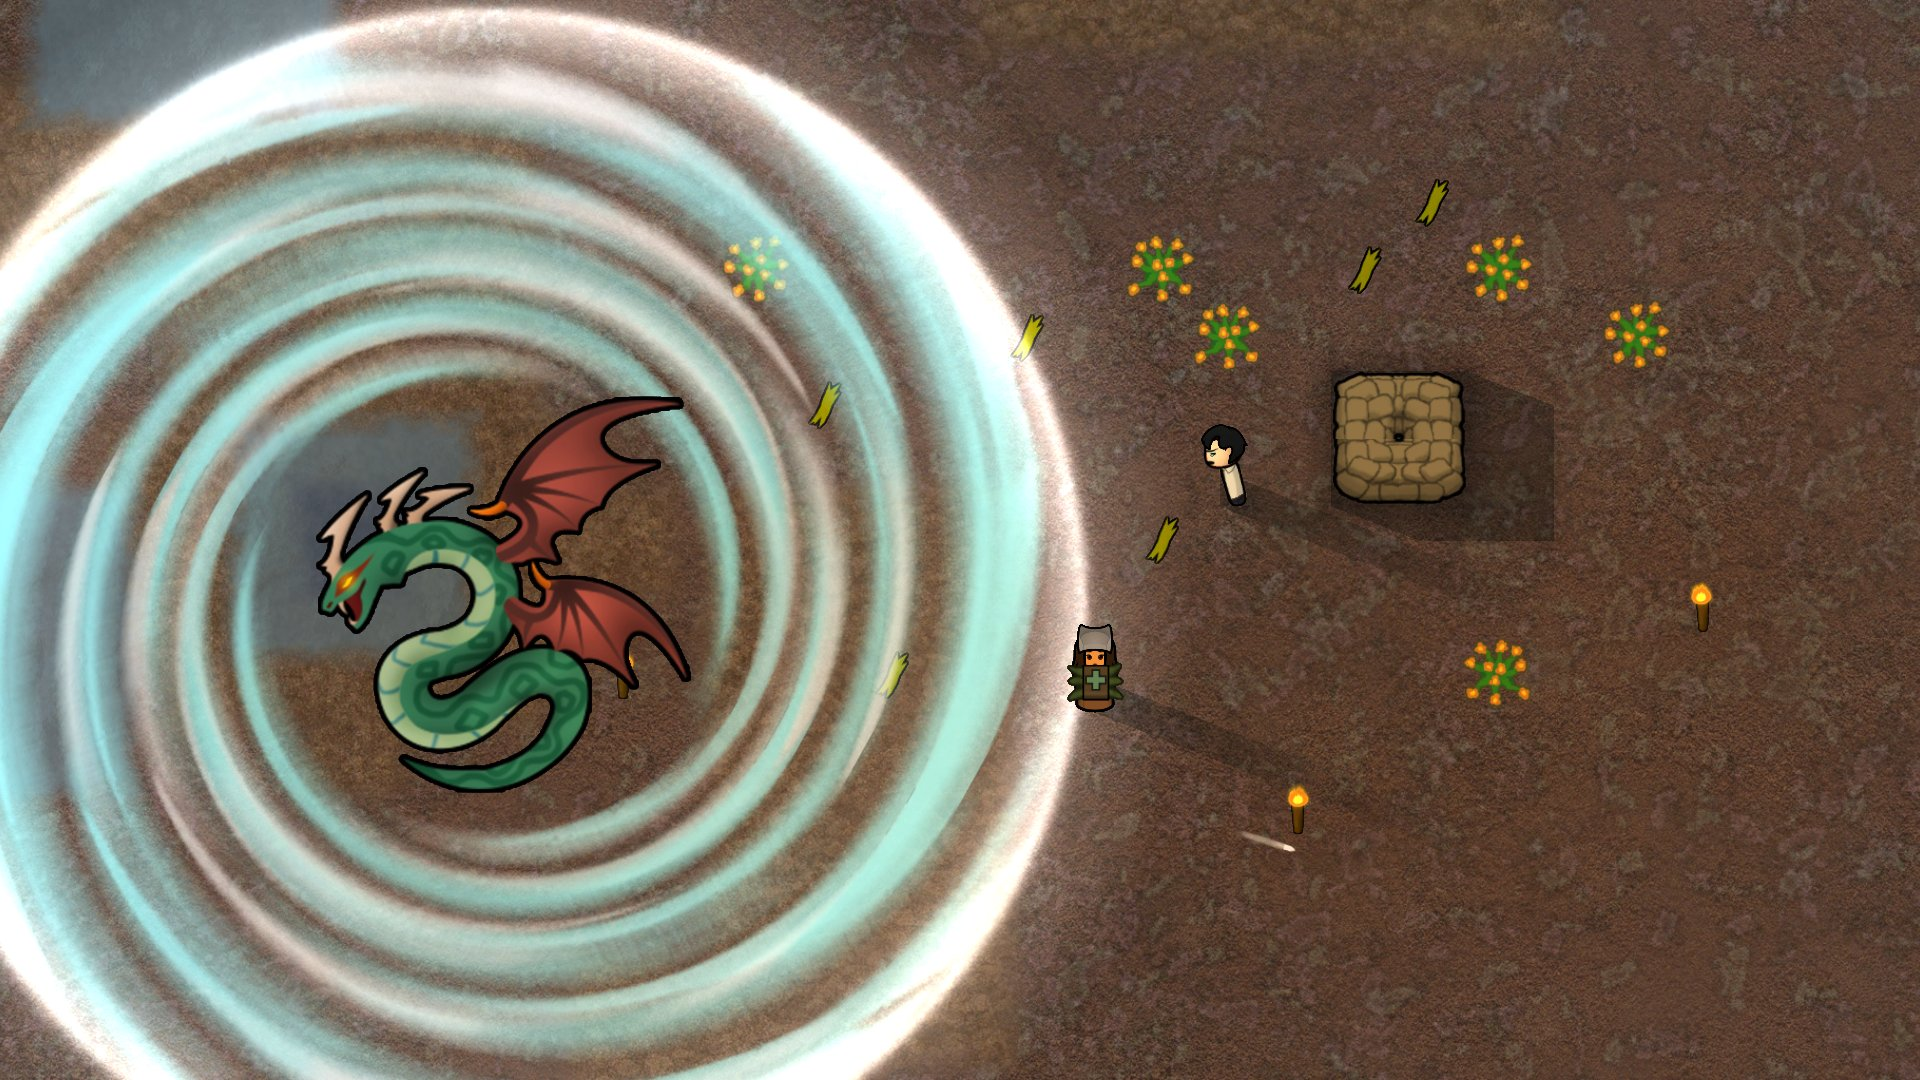
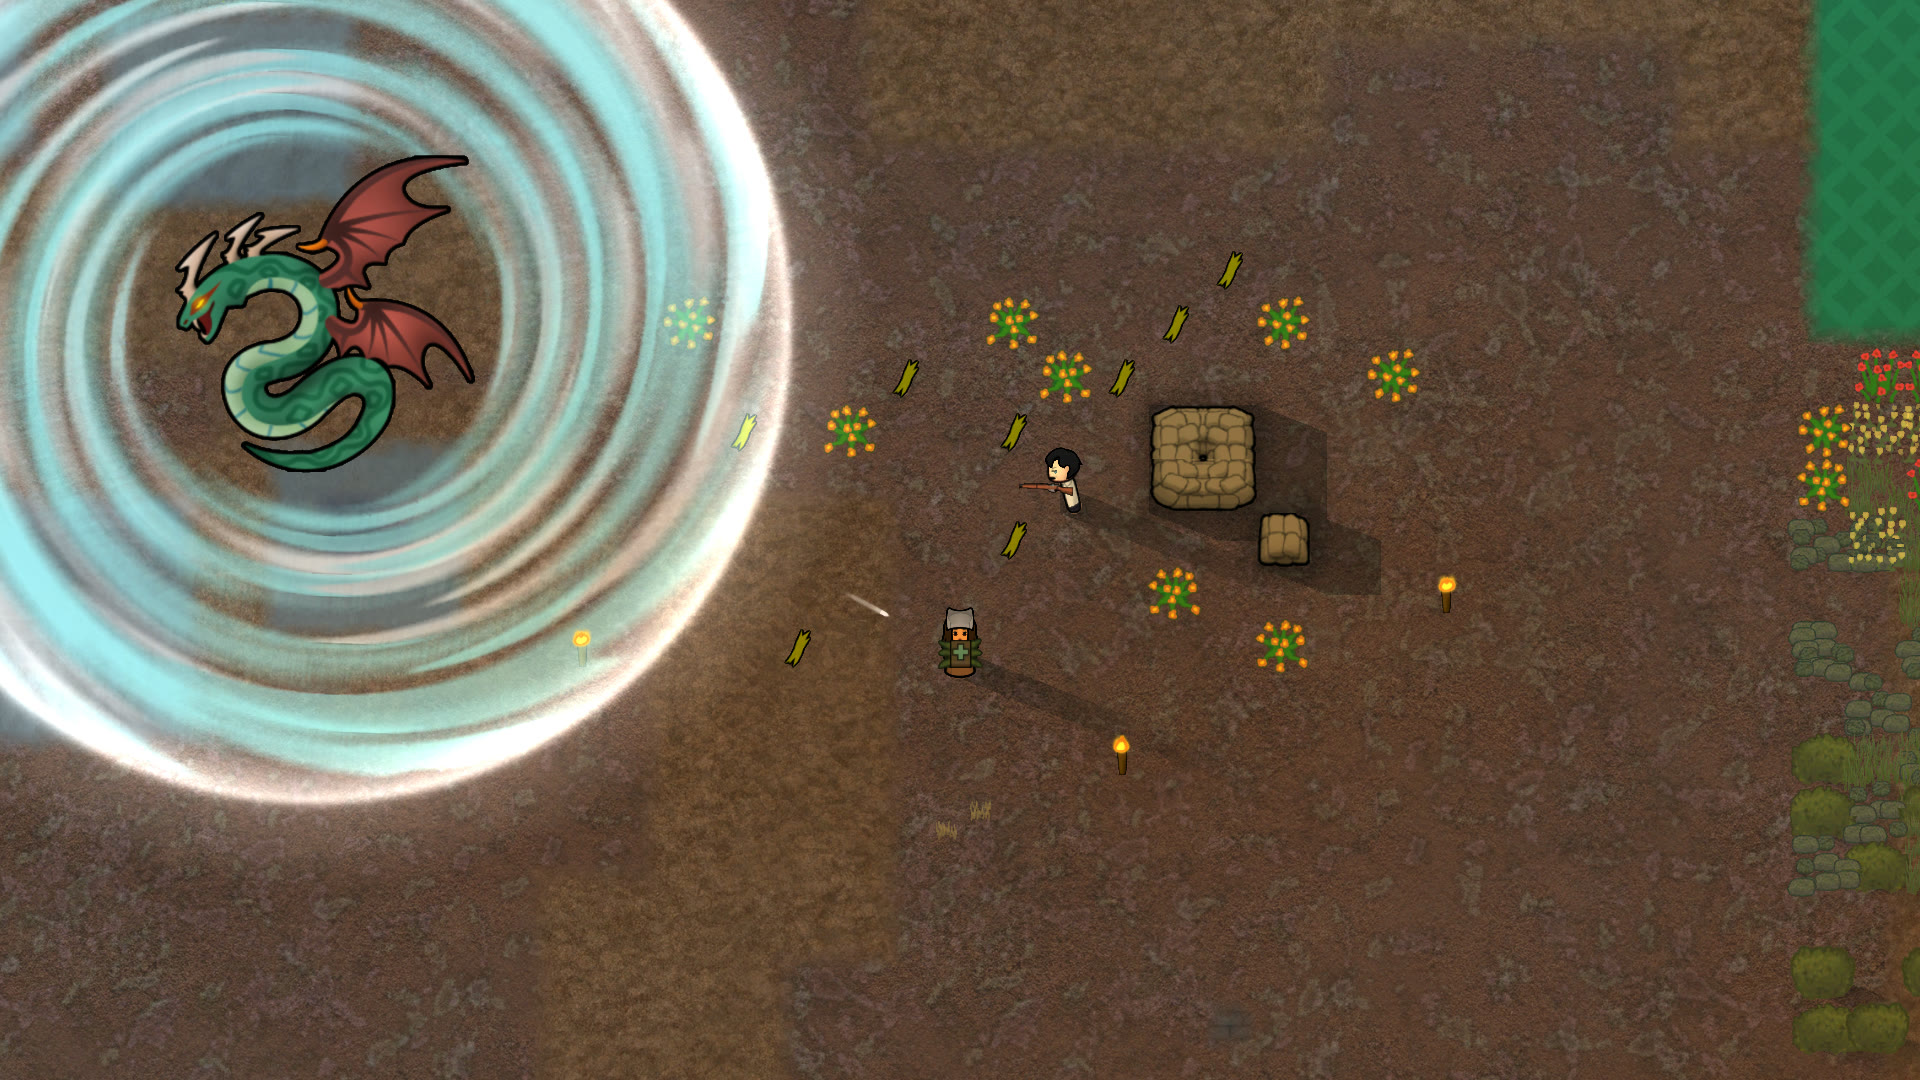
Gallery 5 v9c: Ryu aims with the rifle raised, candidate replaced, STATUS

diff --git a/STATUS.md b/STATUS.md
@@ -231,3 +231,5 @@ STATE 2026-11-14 (scene 5 v9b filed): v9 (wields early, aims at the pause, ticke
 STATE 2026-11-14 (scene 5 v9b read): ticket 20261114-214939-181-06df (06df) DONE, passed 1/1 (8d00 red was a flaky shot wait, TM watching the lane). Capture opened: image 4, adequacy 4, understanding 3.5, decoration 4. Ryu stays on his cell now (177,143) beside the sandbags, mingshe whole in barrier, Nelim with kit at its edge, torches, flowers, sandbags; but Ryu is still only head and shirt, no rifle visible although the log says `[aim] Ryu at (177, 143) aims Gun_BoltActionRifle at (166, 143), rot 3, job none`; thrown-back shot a thin streak at the bottom. REDO by the under-4 rule. Asked NPT (message 2026-11-14): is the weapon drawn from this camera, other facing, held-weapon step. Capture and Inbox folder deleted. Next: NPT answer, recompose (facing North or South, drop `facial expression normal+AttackStatic` if it hides the pose), one ticket; all eight candidates OK before the ONE final review message; then replay-audit (REPLAY line to the TM).
 
 STATE 2026-11-14 (scene 5 v9c filed): NPT found the cause of the missing rifle: `stands at` stopped Ryu's job after `wields` (job none), and the game draws no weapon without a job that may show it. NPT commit 2a21050 (bundle synced): `aims at the cell` now restarts Wait_Combat before the stance; its [aim] log adds `drafted` and `carryOpenly` (expect True, Wait_Combat, True). Feature unchanged. Ticket 20261114-225655-910-64e7 (64e7, filter 24-gallery::gallery 5 - the wind barrier, map wsl-deps.sanctuary.map, Inbox 2026-11-14c-gallery-5) WAITING. On RUN_DONE: summary.json, capture, score-gallery; if the weapon shows behind the body try facing North and tell NPT the new [aim] line. All eight candidates OK before the ONE final review message; then replay-audit (REPLAY line to the TM).
+
+STATE 2026-11-14 (scene 5 v9c read): ticket 20261114-225655-910-64e7 (64e7) DONE, passed 1/1; TM: stable, stop refiling scene 5 (4 greens of 5). `[aim]` line: drafted True, job Wait_Combat, carryOpenly True. Capture opened: image 4, adequacy 4, understanding 4, decoration 4. Ryu on his cell beside the sandbags with the rifle raised toward the barrier, Nelim with kit at its edge, torches, flowers, sandbags; flaws: barrier cut by the left edge (mingshe whole), thrown-back shot a thin streak, face of Ryu small. Candidate: `Art/Gallery-clean/5-candidate-wind-barrier.jpg` replaced (v6 gone). Inbox folder deleted. Next: all eight candidates now OK (1, 2, 3, 4, 6, 7, 8 earlier, 5 v9c); ONE final review message for Virginie with all eight; then replay-audit (REPLAY line to the TM); `/sync-nsb-npt` NPT part and DLC names by sense still owed.
